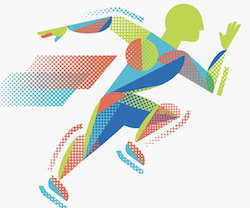
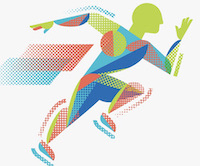
made images responsive

diff --git a/index.html b/index.html
@@ -47,8 +47,8 @@
 
     </article>
 
-<img srcset="images/pic1copy.png 250w, images/pic1.png 553w"
-		 sizes="(max-width: 553px) 250px, 553px"
+<img srcset="images/pic1copy.png 200w, images/pic1.png 553w"
+		 sizes="(max-width: 553px) 200px, 553px"
 		 src= "images/pic1.png"
 		 alt="My Logo" title="My Logo">
 
